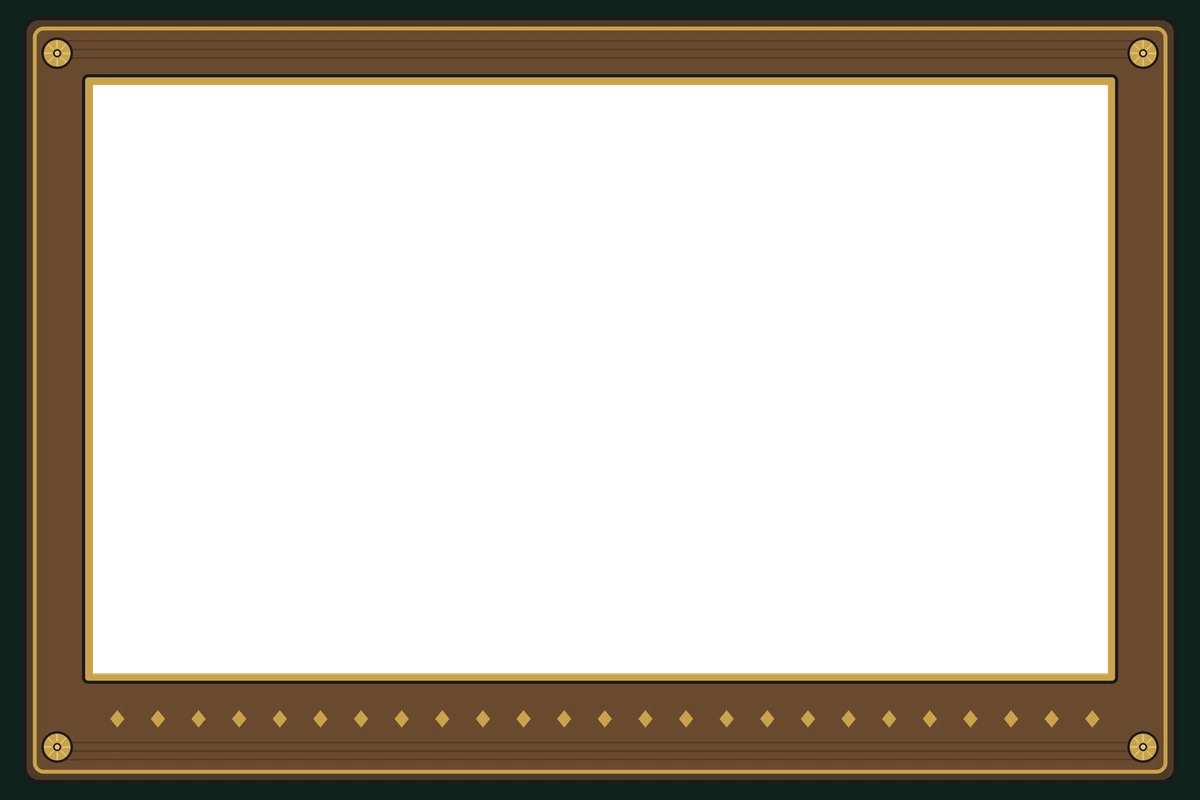
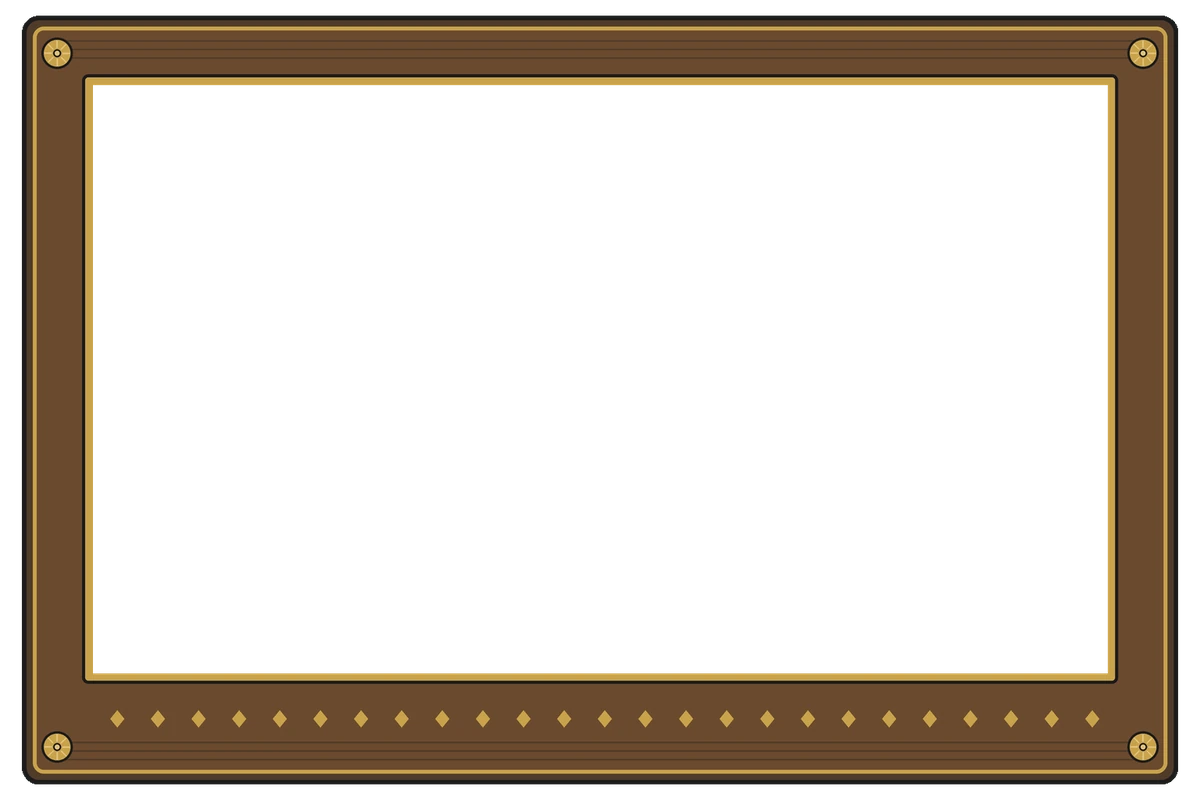
Casino art: let the keno board sit on any felt
The build keys out the flat ground colour behind the board's walnut frame, so
only the frame and its window show on the table.

Changed region(s): [[0.0, 0.0, 1.0, 1.0]]

diff --git a/tools/art/build_casino.py b/tools/art/build_casino.py
@@ -19,7 +19,7 @@ import io
 import os
 import shutil
 import sys
-from PIL import Image, ImageChops, ImageFilter, ImageOps
+from PIL import Image, ImageChops, ImageDraw, ImageFilter, ImageOps
 
 ROOT = os.getcwd()
 SRC = os.path.join(ROOT, 'art/casino/source')
@@ -180,7 +180,10 @@ def video():
 
 
 def keno():
-    webp(resize(cut_magenta(src('keno', 'keno-board')), 1200, 800), os.path.join(CASINO, 'keno', 'keno-board'))
+    board = cut_magenta(src('keno', 'keno-board'))
+    for xy in ((0, 0), (board.width - 1, 0), (0, board.height - 1), (board.width - 1, board.height - 1)):
+        ImageDraw.floodfill(board, xy, (0, 0, 0, 0), thresh=12)   # the flat ground behind the frame, so it sits on any felt
+    webp(resize(board, 1200, 800), os.path.join(CASINO, 'keno', 'keno-board'))
     webp(resize(src('keno', 'keno-blower').convert('RGBA'), 512, 512), os.path.join(CASINO, 'keno', 'keno-blower'))
     webp(resize(src('keno', 'keno-ball').convert('RGBA'), 128, 128), os.path.join(CASINO, 'keno', 'keno-ball'))
     webp(src('keno', 'keno-paper').convert('RGB'), os.path.join(CASINO, 'keno', 'keno-paper'), quality=85)
